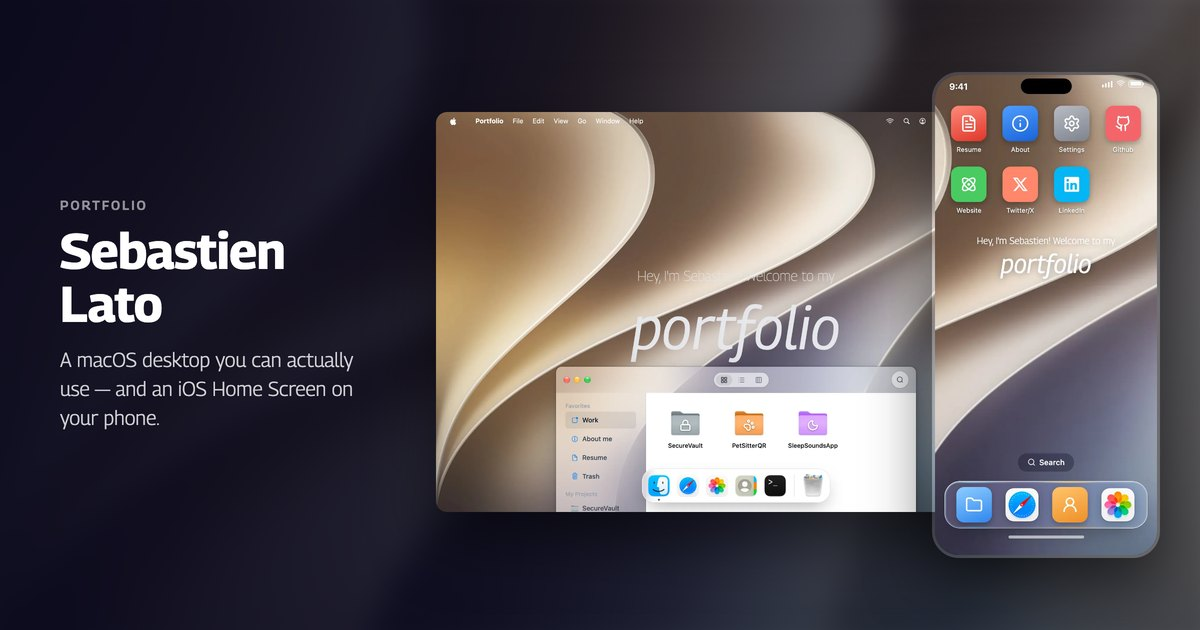
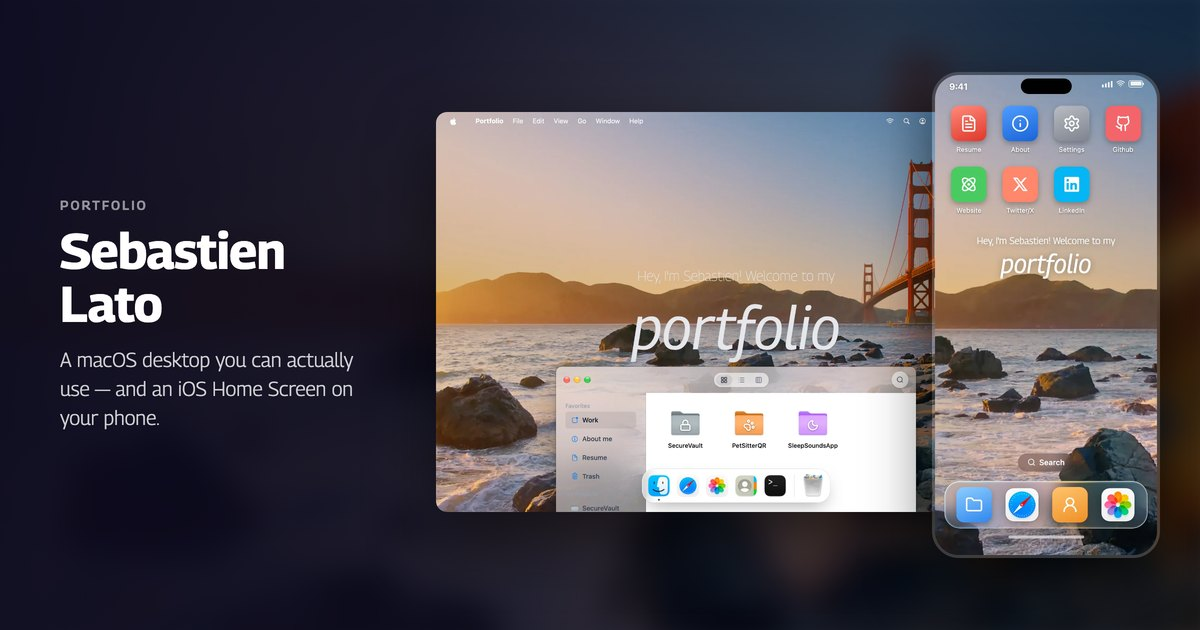
feat: the desktop opens on Golden Gate Sunset, and GitHub shows it
Sunset is the owner's pick, and the one their own copy of the site shows;
the abstract Apple ships as its default stays in the list. The README
screenshots and the link-preview card are generated from a fresh visit,
so they follow the default — which is what had GitHub showing a wallpaper
the site no longer opens on.

diff --git a/src/store/system.ts b/src/store/system.ts
@@ -15,12 +15,12 @@ import type {
  * Resolved by id rather than taken from the head of the list. The list is
  * ordered newest-first, so its first entry moves every time a release is added
  * — and what a visitor lands on, and what Reset goes back to, should not change
- * as a side effect of that ordering. macOS 27's own default, the dynamic
- * abstract, because the desktop is macOS 27 and this is the first thing that
- * says so.
+ * as a side effect of that ordering. Golden Gate Sunset, the owner's
+ * choice: the bridge says macOS 27 at a glance, where Apple's own default
+ * is an abstract that could belong to any release.
  */
 const DEFAULT_WALLPAPER =
-  wallpapers.find((wallpaper) => wallpaper.id === "golden-gate") ??
+  wallpapers.find((wallpaper) => wallpaper.id === "golden-gate-sunset") ??
   wallpapers[0];
 const DEFAULT_ACCENT = accents[0];
 

diff --git a/src/constants/index.ts b/src/constants/index.ts
@@ -78,10 +78,11 @@ const navIcons: NavIcon[] = [
 
 const wallpapers: Wallpaper[] = [
   /*
-   * macOS 27's own set, from Apple's release images. The default is the
+   * macOS 27's own set, from Apple's release images. Apple's default is the
    * abstract one — the same artwork iOS 27 ships — and it is dynamic: a
    * light picture and a dark one, following the appearance. The two bridge
-   * photographs are the optional pair Apple added in beta 3.
+   * photographs are the optional pair Apple added in beta 3; Sunset is the
+   * one this desktop opens on (see DEFAULT_WALLPAPER).
    *
    * Desktop copies are 2880 wide. The phone copies are sized by *height*
    * (1100px), not width like Sequoia's: these are wider than 16:10, and a

diff --git a/src/utils/wallpaperSource.test.ts b/src/utils/wallpaperSource.test.ts
@@ -51,7 +51,7 @@ describe("wallpaperSource", () => {
     expect(wallpaperBackground(gradient)).toBe(gradient.value);
   });
 
-  it("ships macOS 27's default as a light/dark pair", () => {
+  it("ships Golden Gate's abstract as a light/dark pair", () => {
     const goldenGate = wallpapers.find((wp) => wp.id === "golden-gate");
     expect(goldenGate?.dark?.value).toBeTruthy();
     expect(goldenGate?.dark?.value).not.toBe(goldenGate?.value);

diff --git a/README.md b/README.md
@@ -38,7 +38,7 @@ On a phone it becomes an iOS-style Home Screen instead: same content, same prefe
 - **Folder colours and badges** – macOS 26's folder customisation. Right-click a folder → Get Info to give it any of nine tints and a badge; the swatches are the folder artwork under the same hue rotation the icons use, so what you pick is what gets drawn. Overrides only, so Reset returns a folder to whatever the content authored.
 - **Desktop** – Right-click menus on the desktop, the dock and Finder items. A right-click opens with nothing highlighted, as on a Mac; Shift+F10 opens the same menu from the keyboard with the first item ready.
 - **Cursor** – The arrow everywhere, never the pointing hand: a Mac shows the arrow over buttons, menu items, the dock and links alike. The I-beam in text fields and the resize arrows at window edges stay, because macOS shows those too.
-- **Appearance** – Light, Dark or Auto (follows the OS and re-resolves when it flips), alongside macOS wallpapers — Golden Gate back to Big Sur — and custom image upload. Persisted in `localStorage`. The default is Golden Gate's abstract wallpaper, and like the real one it is dynamic: a light picture and a dark one, following the appearance. The two Golden Gate bridge photographs sit beside it, and Sonoma, Ventura, Monterey and Big Sur are Apple's own defaults too, each dynamic in the same way. Sequoia is its photograph; Tahoe and Midnight are gradients. Every image wallpaper ships a phone-sized copy, and a dynamic one a pair of each.
+- **Appearance** – Light, Dark or Auto (follows the OS and re-resolves when it flips), alongside macOS wallpapers — Golden Gate back to Big Sur — and custom image upload. Persisted in `localStorage`. The default is the Golden Gate Sunset photograph. Golden Gate's abstract wallpaper — Apple's own default — sits beside it, and like the real one it is dynamic: a light picture and a dark one, following the appearance. Sonoma, Ventura, Monterey and Big Sur are Apple's own defaults too, each dynamic in the same way. Sequoia is its photograph; Tahoe and Midnight are gradients. Every image wallpaper ships a phone-sized copy, and a dynamic one a pair of each.
 - **Liquid Glass** – macOS 27's material: frosted by default, with the darkened edge and brighter, more even specular rim 27 introduced. System Settings → Appearance has its slider, with Apple's three notches — Ultraclear, Default (where it starts) and Fully Tinted — calibrated against captures of the shipping release: blur carries the change, on a curve, so Tinted washes the wallpaper to its own colour rather than to white. Reduce Transparency still wins at any setting, and the slider says so rather than moving to no effect.
 - **Accent colour** – Eight colours, running through selections, menu highlights, sidebar glyphs and the focus ring in both shells. One CSS variable on `<main>`; nothing is hardcoded blue any more.
 - **Icons** – macOS 27's own, rendered from the system rather than collected (each app bundle's icon via `NSWorkspace`, and AppKit's two Trash images, drawn in the Light appearance and saved as 256px WebP), so every app icon sits on the same grid. The Trash is drawn full or empty depending on what is in it.
